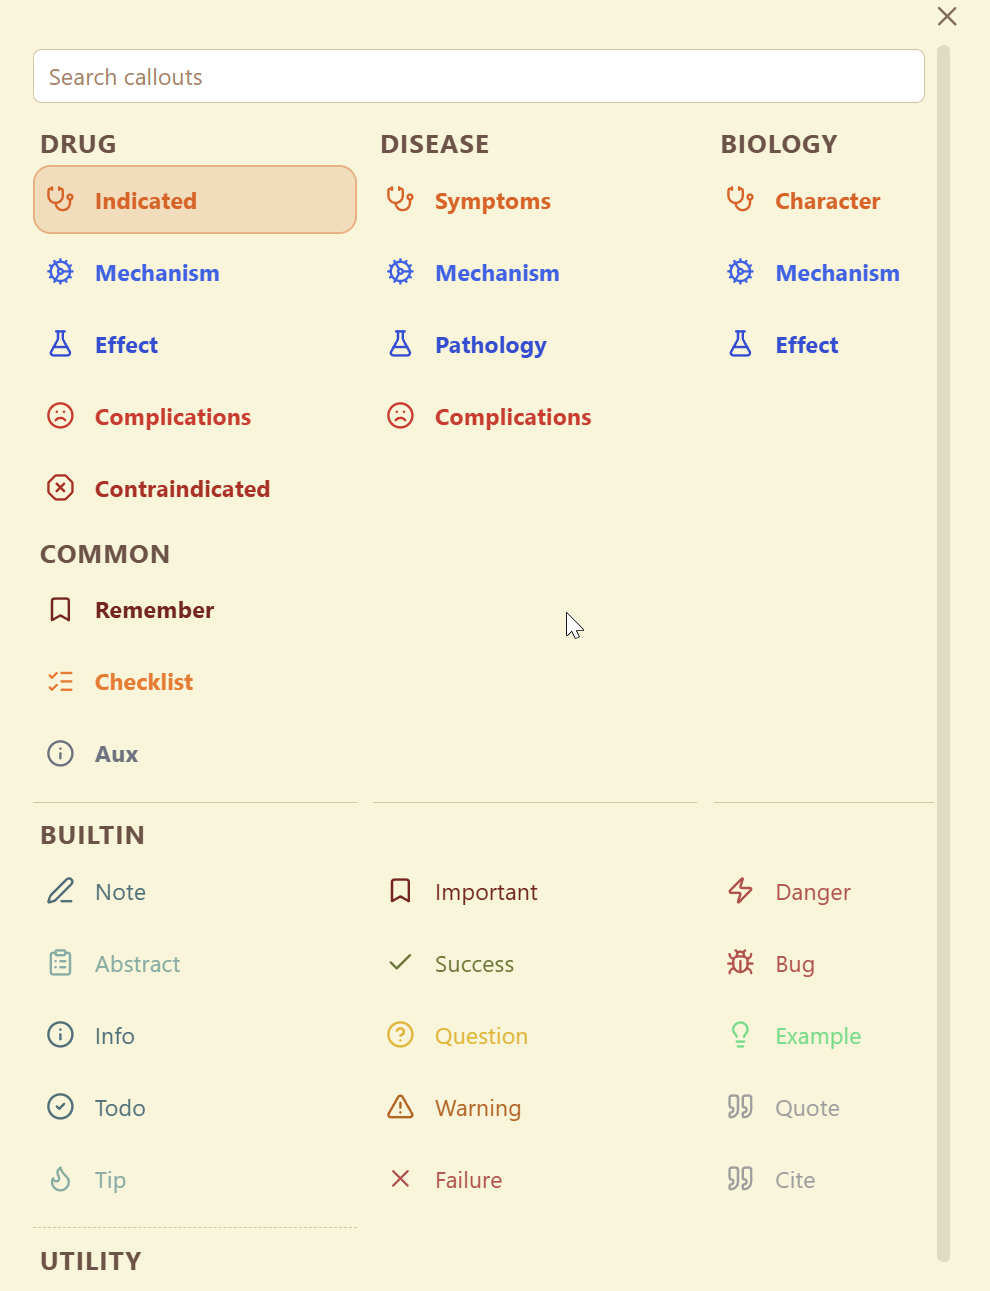
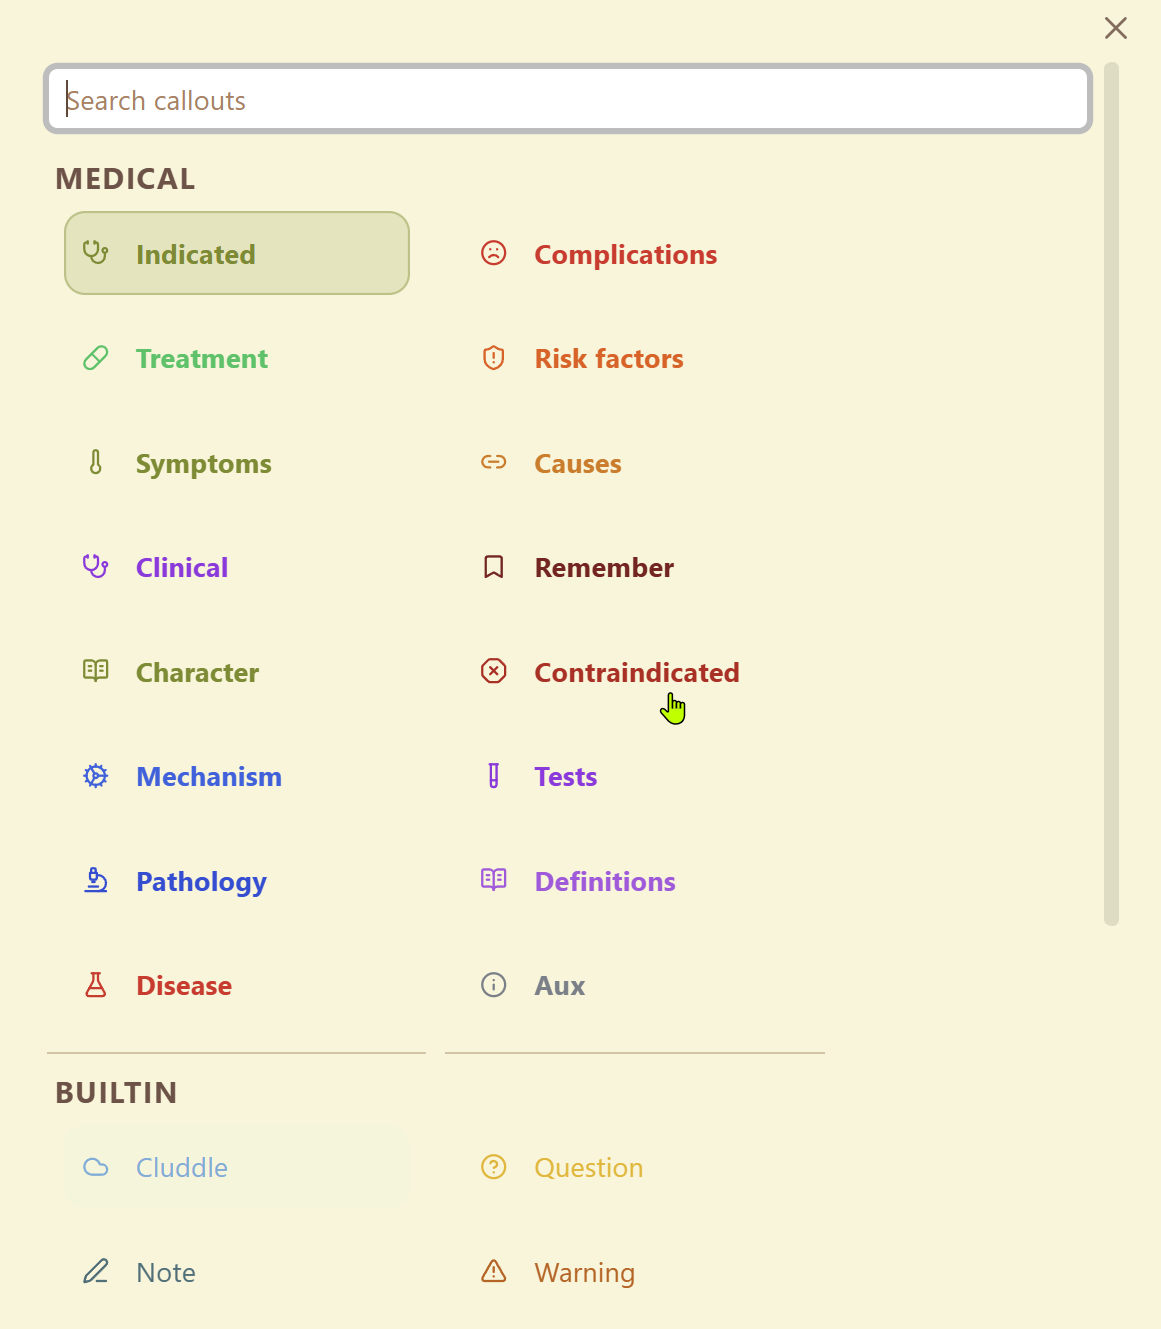
Release 0.1.10

diff --git a/docs/example-medical-callouts.css b/docs/example-medical-callouts.css
@@ -26,7 +26,7 @@
 .callout[data-callout="trea"],
 .callout[data-callout="use"] {
     --callout-color: 34, 197, 94;
-    --callout-icon: lucide-stethoscope;
+    --callout-icon: lucide-pill;
     --callout-concept: treatment;
     --callout-groups: medical;
     --callout-group-medical: treatment trea use;
@@ -35,7 +35,7 @@
 .callout[data-callout="symptoms"],
 .callout[data-callout="symp"] {
     --callout-color: 124, 140, 32;
-    --callout-icon: lucide-stethoscope;
+    --callout-icon: lucide-thermometer;
     --callout-concept: recognition;
     --callout-groups: medical;
     --callout-group-medical: symptoms symp;
@@ -44,7 +44,7 @@
 .callout[data-callout="character"],
 .callout[data-callout="char"] {
     --callout-color: 124, 140, 32;
-    --callout-icon: lucide-stethoscope;
+    --callout-icon: lucide-book-open-text;
     --callout-concept: recognition;
     --callout-groups: medical;
     --callout-group-medical: character char;
@@ -60,17 +60,6 @@
     --callout-group-medical: mechanism mech role;
 }
 
-.callout[data-callout="effect"],
-.callout[data-callout="effe"],
-.callout[data-callout="consequences"],
-.callout[data-callout="cons"] {
-    --callout-color: 29, 78, 216;
-    --callout-icon: lucide-flask-conical;
-    --callout-concept: effect;
-    --callout-groups: medical;
-    --callout-group-medical: effect effe consequences cons;
-}
-
 .callout[data-callout="pathology"],
 .callout[data-callout="patho"],
 .callout[data-callout="pathogenesis"],
@@ -78,7 +67,7 @@
 .callout[data-callout="genesis"],
 .callout[data-callout="gene"] {
     --callout-color: 29, 78, 216;
-    --callout-icon: lucide-flask-conical;
+    --callout-icon: lucide-microscope;
     --callout-concept: pathology;
     --callout-groups: medical;
     --callout-group-medical: pathology patho pathogenesis path genesis gene;
@@ -160,19 +149,10 @@
     --callout-group-medical: contraindicated cont contra;
 }
 
-.callout[data-callout="checklist"],
-.callout[data-callout="chec"] {
-    --callout-color: 147, 51, 234;
-    --callout-icon: lucide-list-checks;
-    --callout-concept: checklist;
-    --callout-groups: medical;
-    --callout-group-medical: checklist chec;
-}
-
 .callout[data-callout="tests"],
 .callout[data-callout="test"] {
     --callout-color: 147, 51, 234;
-    --callout-icon: lucide-list-checks;
+    --callout-icon: lucide-test-tube;
     --callout-concept: tests;
     --callout-groups: medical;
     --callout-group-medical: tests test;
